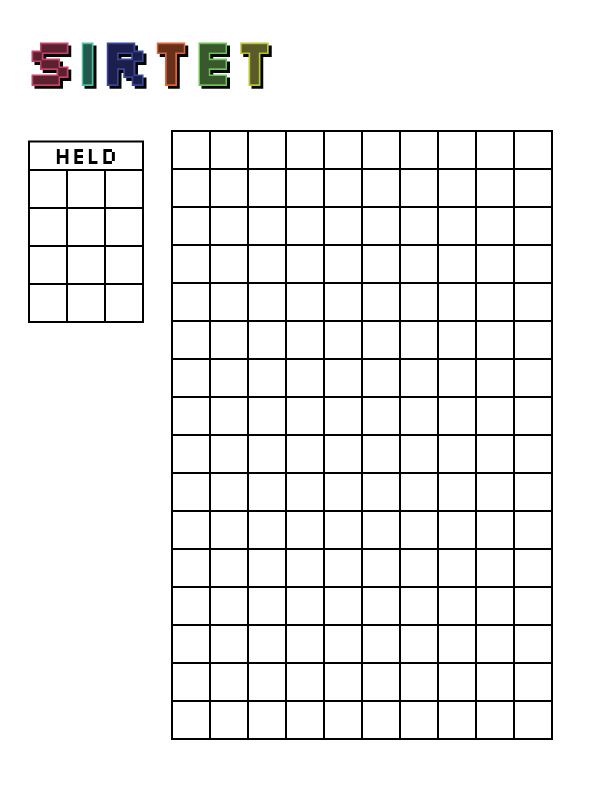
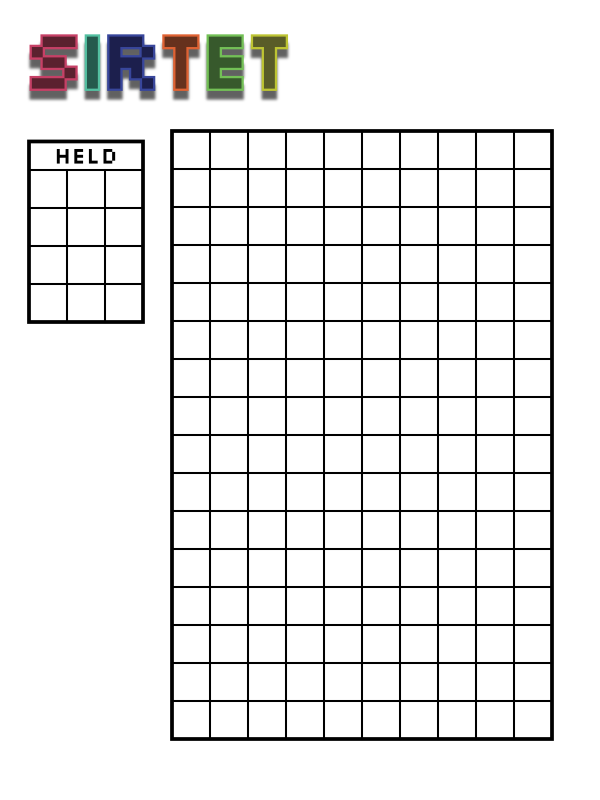
The Enlightening Update
- SirtetWindow label setups now return label instead of void
- Redundant line in MenuScene removed, fixes #50
- Added basicPanelSetup to SirtetWindow for all panels to use, fixes #49
- Changed playAudio to no longer create a new clip and thread, always uses same Sirtet.audioClips clip. Shows an average 99.81% decrease in delay from 5831bb3 and before.
- Collapsed MenuScene and ControlsImage into MenuScene, fixes #51. Enums, Sirtet etc. were changed to reflect this change
- Updated most assets, complete visual overhaul that made things lighter (thus the title)

diff --git a/src/GameplayScene.java b/src/GameplayScene.java
@@ -11,20 +11,16 @@ import java.util.ConcurrentModificationException;
 class GameplayScene extends JPanel implements KeyListener {
     private boolean isPaused = false;
     private SirtetGrid grid;
-    private JLabel score = new JLabel();
-    private JLabel paused = new JLabel("Game Paused");
+    private JLabel score = SirtetWindow.labelSetupLeft("", Sirtet.SILKSCREEN_60, 0, 0);
+    private JLabel paused = SirtetWindow.labelSetupCenter("Game Paused", Sirtet.SILKSCREEN_60, 250);
     private JPanel playPanel;
-    private JPanel pausePanel;
+    private JPanel pausePanel = new JPanel();
     private ReactiveButton quitButton;
     private VolumeSliders volumeSliders;
 
     public GameplayScene() {
         SaveData.currentScore = -25;
-        SirtetWindow.labelSetupLeft(score, Sirtet.SILKSCREEN_60, 0, 0);
-        SirtetWindow.labelSetupCenter(paused, Sirtet.SILKSCREEN_60, 250);
-        genericPanelSetup(this);
-        setBackground(Sirtet.SIRTET_GREEN);
-        setOpaque(true);
+        SirtetWindow.basicPanelSetup(this, true);
         volumeSliders = new VolumeSliders(VolumeSliders.VOLUME_CENTER_X, 350);
         quitButton = new ReactiveButton(Sirtet.menuImages[2], Sirtet.menuImages[5], 425, e -> SirtetWindow.changeScene(SceneID.Menu));
         grid = new SirtetGrid(this);
@@ -32,53 +28,43 @@ class GameplayScene extends JPanel implements KeyListener {
         pausePanelSetup();
     }
 
-    public void genericPanelSetup(JPanel panel) {
-        panel.setLayout(null);
-        panel.setSize(SirtetWindow.FRAME_SIZE_X, SirtetWindow.FRAME_SIZE_Y);
-        panel.setOpaque(false);
-    }
-
     public void playPanelSetup() {
         playPanel = new JPanel() {
             public void paint(Graphics g) {
                 super.paint(g);
-                g.setColor(new Color(103, 215, 237));
+                g.setColor(new Color(87, 223, 255));
                 int lastHeight = grid.getLastSonimortet().getHeight();
                 for (SonimortetPositions pos : grid.getLastPositions()) {
                     g.fillRect(173 + 38 * pos.getX(), 132 + 38 * (pos.getY() + lastHeight), 36, 36);
                 }
-                Image currentImage;
                 try {
                     for (Sonimortet currentSonimortet : grid.getSonimortetList()) {
-                        currentImage = Sirtet.gameplaySceneImages[currentSonimortet.getType().ordinal()];
+                        Image currentImage = Sirtet.gameplaySceneImages[currentSonimortet.getType().ordinal()];
                         for (SonimortetPositions currentPosition : currentSonimortet.getPositions()) {
-                            g.drawImage(currentImage, 173 + 38 * currentPosition.getX(), 132 + 38 * currentPosition.getY(), 36, 36, Sirtet.observer);
+                            g.drawImage(currentImage, 173 + 38 * currentPosition.getX(), 132 + 38 * currentPosition.getY(), Sirtet.observer);
                         }
                     }
                 } catch (ConcurrentModificationException e) {
                     repaint();
                     return;
                 }
-                currentImage = Sirtet.gameplaySceneImages[grid.getHeldType().ordinal()];
                 for (int xPos = 0; xPos < 3; xPos++) {
                     for (int yPos = 0; yPos < 4; yPos++) {
                         if (getHeldGrid()[xPos][yPos]) {
-                            g.drawImage(currentImage, 30 + 38 * xPos, 170 + 38 * yPos, 37, 37, Sirtet.observer);
+                            g.drawImage(Sirtet.gameplaySceneImages[grid.getHeldType().ordinal()], 30 + 38 * xPos, 170 + 38 * yPos, 37, 37, Sirtet.observer);
                         }
                     }
                 }
-                currentImage = Sirtet.gameplaySceneImages[7];
-                g.drawImage(currentImage, 0, 0, Sirtet.observer);
+                g.drawImage(Sirtet.gameplaySceneImages[7], 0, 0, Sirtet.observer);
             }
         };
-        genericPanelSetup(playPanel);
+        SirtetWindow.basicPanelSetup(playPanel, false);
         playPanel.add(score);
         add(playPanel);
     }
 
     public void pausePanelSetup() {
-        pausePanel = new JPanel();
-        genericPanelSetup(pausePanel);
+        SirtetWindow.basicPanelSetup(pausePanel, false);
         pausePanel.add(quitButton);
         pausePanel.add(paused);
         pausePanel.add(volumeSliders);
@@ -175,9 +161,7 @@ class GameplayScene extends JPanel implements KeyListener {
             case KeyEvent.VK_ESCAPE:
                 pauseGame();
         }
-        try {
-            grid.updateGrid(true);
-        } catch (NullPointerException ignored) {}
+        try { grid.updateGrid(true); } catch (NullPointerException ignored) {}
     }
 
     public SirtetGrid getGrid() {

diff --git a/src/HighScoreScene.java b/src/HighScoreScene.java
@@ -14,14 +14,10 @@ class HighScoreScene extends JPanel implements KeyListener {
     private JLabel[] scoreLabels = new JLabel[10];
 
     public HighScoreScene() {
+        SirtetWindow.basicPanelSetup(this, true);
         loadLabels();
-        setBackground(Sirtet.SIRTET_GREEN);
-        JLabel titleLabel = new JLabel("Highscores");
-        SirtetWindow.labelSetupCenter(titleLabel, Sirtet.SILKSCREEN_60, 50);
-        JLabel returnLabel = new JLabel("ESC to Return");
-        SirtetWindow.labelSetupCenter(returnLabel, Sirtet.SILKSCREEN_30, 725);
-        setLayout(null);
-        setSize(SirtetWindow.FRAME_SIZE_X, SirtetWindow.FRAME_SIZE_Y);
+        JLabel titleLabel = SirtetWindow.labelSetupCenter("Highscores", Sirtet.SILKSCREEN_60, 50);
+        JLabel returnLabel = SirtetWindow.labelSetupCenter("ESC to Return", Sirtet.SILKSCREEN_30, 725);
         add(titleLabel);
         add(returnLabel);
         for (int labelIndex = 0; labelIndex < 10; labelIndex++) {
@@ -34,12 +30,9 @@ class HighScoreScene extends JPanel implements KeyListener {
     public void loadLabels() {
         for (int labelIndex = 0; labelIndex < 10; labelIndex++) {
             HighScore currentHS = SaveData.highScores[labelIndex];
-            indexLabels[labelIndex] = new JLabel(labelIndex + 1 + ": ");
-            SirtetWindow.labelSetupRight(indexLabels[labelIndex], Sirtet.SILKSCREEN_30, 110, 160 + labelIndex * 50);
-            nameLabels[labelIndex] = new JLabel(currentHS.getName());
-            SirtetWindow.labelSetupRight(nameLabels[labelIndex], Sirtet.SILKSCREEN_30, 360, 160 + labelIndex * 50);
-            scoreLabels[labelIndex] = new JLabel("" + currentHS.getScore());
-            SirtetWindow.labelSetupRight(scoreLabels[labelIndex], Sirtet.SILKSCREEN_30, 550, 160 + labelIndex * 50);
+            indexLabels[labelIndex] = SirtetWindow.labelSetupRight(labelIndex + 1 + ": ", Sirtet.SILKSCREEN_30, 110, 160 + labelIndex * 50);
+            nameLabels[labelIndex] = SirtetWindow.labelSetupRight(currentHS.getName(), Sirtet.SILKSCREEN_30, 360, 160 + labelIndex * 50);
+            scoreLabels[labelIndex] = SirtetWindow.labelSetupRight("" + currentHS.getScore(), Sirtet.SILKSCREEN_30, 550, 160 + labelIndex * 50);
         }
     }
 

diff --git a/src/MenuScene.java b/src/MenuScene.java
@@ -7,25 +7,18 @@ import java.awt.*;
  */
 class MenuScene extends JPanel {
     public MenuScene() {
-        setSize(SirtetWindow.FRAME_SIZE_X, SirtetWindow.FRAME_SIZE_Y);
-        setLayout(null);
-        setSize(SirtetWindow.FRAME_SIZE_X, SirtetWindow.FRAME_SIZE_Y);
-        JPanel menuBackground = new JPanel() {
+        SirtetWindow.basicPanelSetup(this, false);
+        JPanel backgroundPanel = new JPanel() {
             public void paint(Graphics g) {
-                Image image = Sirtet.menuImages[6];
-                g.drawImage(image, 0, 0, SirtetWindow.FRAME_SIZE_X, SirtetWindow.FRAME_SIZE_Y, Sirtet.observer);
-                image = Sirtet.menuImages[7];
-                g.drawImage(image, 600 / 2 - 388 / 2, 475, 388, 193, Sirtet.observer);
+                super.paint(g);
+                g.drawImage(Sirtet.menuImages[6], 0, 0, Sirtet.observer);
             }
         };
-        menuBackground.setSize(SirtetWindow.FRAME_SIZE_X, SirtetWindow.FRAME_SIZE_Y);
-        add(new ReactiveButton(Sirtet.menuImages[0], Sirtet.menuImages[3], 280, e -> SirtetWindow.changeScene(SceneID.Gameplay)));
-        add(new ReactiveButton(Sirtet.menuImages[1], Sirtet.menuImages[4], 340, e -> SirtetWindow.changeScene(SceneID.HighScore)));
-        add(new ReactiveButton(Sirtet.menuImages[2], Sirtet.menuImages[5], 405, e-> {
-            SaveData.writeFile();
-            System.exit(0);
-        }));
+        SirtetWindow.basicPanelSetup(backgroundPanel, false);
+        add(new ReactiveButton(Sirtet.menuImages[0], Sirtet.menuImages[3], 260, e -> SirtetWindow.changeScene(SceneID.Gameplay)));
+        add(new ReactiveButton(Sirtet.menuImages[1], Sirtet.menuImages[4], 320, e -> SirtetWindow.changeScene(SceneID.HighScore)));
+        add(new ReactiveButton(Sirtet.menuImages[2], Sirtet.menuImages[5], 380, e-> { SaveData.writeFile(); System.exit(0); }));
         add(new VolumeSliders(VolumeSliders.VOLUME_CENTER_X, 700));
-        add(menuBackground);
+        add(backgroundPanel);
     }
 }

diff --git a/src/SirtetWindow.java b/src/SirtetWindow.java
@@ -73,27 +73,39 @@ class SirtetWindow {
         frame.repaint();
     }
 
-    public static void genericLabel(JLabel label, Font font) {
+    public static JLabel genericLabel(Font font, String text) {
+        JLabel label = new JLabel(text);
         label.setForeground(Color.black);
         label.setFont(font);
+        return label;
     }
 
-    public static void labelSetupLeft(JLabel label, Font font, int xPos, int yPos) {
-        genericLabel(label, font);
+    public static JLabel labelSetupLeft(String text, Font font, int xPos, int yPos) {
+        JLabel label = genericLabel(font, text);
         label.setBounds(xPos, yPos, label.getPreferredSize().width, label.getPreferredSize().height);
+        return label;
     }
 
-    public static void labelSetupCenter(JLabel label, Font font, int yPos) {
-        genericLabel(label, font);
+    public static JLabel labelSetupCenter(String text, Font font, int yPos) {
+        JLabel label = genericLabel(font, text);
         int labelWidth = label.getPreferredSize().width;
         int labelHeight = label.getPreferredSize().height;
         label.setBounds((FRAME_SIZE_X - labelWidth) / 2, yPos, labelWidth, labelHeight);
+        return label;
     }
 
-    public static void labelSetupRight(JLabel label, Font font, int xPos, int yPos) {
-        genericLabel(label, font);
+    public static JLabel labelSetupRight(String text, Font font, int xPos, int yPos) {
+        JLabel label = genericLabel(font, text);
         int labelWidth = label.getPreferredSize().width;
         int labelHeight = label.getPreferredSize().height;
         label.setBounds(xPos - labelWidth, yPos, labelWidth, labelHeight);
+        return label;
+    }
+
+    public static void basicPanelSetup(JPanel panel, boolean opaque) {
+        panel.setBackground(Sirtet.SIRTET_GREEN);
+        panel.setSize(FRAME_SIZE_X, FRAME_SIZE_Y);
+        panel.setOpaque(opaque);
+        panel.setLayout(null);
     }
 }

diff --git a/src/GameOverScene.java b/src/GameOverScene.java
@@ -13,13 +13,9 @@ class GameOverScene extends JPanel implements ActionListener {
     private JTextField nameField;
 
     public GameOverScene() {
-        setSize(SirtetWindow.FRAME_SIZE_X, SirtetWindow.FRAME_SIZE_Y);
-        setLayout(null);
-        setBackground(Sirtet.SIRTET_GREEN);
-        JLabel gameOverLabel = new JLabel("<html><p style=\"text-align:center;\">Game Over!<br>Enter Your Name:</p>");
-        SirtetWindow.labelSetupCenter(gameOverLabel, Sirtet.SILKSCREEN_40, 275);
-        JLabel pointsLabel = new JLabel("Score: " + SaveData.currentScore);
-        SirtetWindow.labelSetupCenter(pointsLabel, Sirtet.SILKSCREEN_40, 475);
+        SirtetWindow.basicPanelSetup(this, true);
+        JLabel gameOverLabel = SirtetWindow.labelSetupCenter("<html><p style=\"text-align:center;\">Game Over!<br>Enter Your Name:</p>", Sirtet.SILKSCREEN_40, 275);
+        JLabel pointsLabel = SirtetWindow.labelSetupCenter("Score: " + SaveData.currentScore, Sirtet.SILKSCREEN_40, 475);
         nameField = new JTextField();
         setField();
         add(gameOverLabel);
@@ -28,12 +24,12 @@ class GameOverScene extends JPanel implements ActionListener {
     }
 
     public void setField() {
+        nameField.setOpaque(false);
         nameField.setBounds(150, 400, 300, 50);
         nameField.setForeground(Color.black);
         nameField.setFont(Sirtet.SILKSCREEN_30);
         nameField.addActionListener(this);
         nameField.setHorizontalAlignment(JTextField.CENTER);
-        nameField.setBackground(new Color(37, 218, 192));
         nameField.setBorder(null);
     }
 

diff --git a/src/SirtetAudio.java b/src/SirtetAudio.java
@@ -18,13 +18,10 @@ class SirtetAudio {
     }
 
     public static void playAudio(AudioID audioID) {
-        new Thread(() -> {
-            Clip clip = Sirtet.audioClips[audioID.ordinal()];
-            clip.stop();
-            FloatControl fc = (FloatControl) clip.getControl(FloatControl.Type.MASTER_GAIN);
-            fc.setValue((float) ((Math.log(SaveData.sfxVolume / 9.0)) / Math.log(10.0) * 20.0));
-            clip.setMicrosecondPosition(0);
-            clip.start();
-        }).start();
+        Sirtet.audioClips[audioID.ordinal()].stop();
+        FloatControl fc = (FloatControl) Sirtet.audioClips[audioID.ordinal()].getControl(FloatControl.Type.MASTER_GAIN);
+        fc.setValue((float) ((Math.log(SaveData.sfxVolume / 9.0)) / Math.log(10.0) * 20.0));
+        Sirtet.audioClips[audioID.ordinal()].setMicrosecondPosition(0);
+        Sirtet.audioClips[audioID.ordinal()].start();
     }
 }

diff --git a/src/Sirtet.java b/src/Sirtet.java
@@ -19,7 +19,7 @@ public class Sirtet {
     static final Font SILKSCREEN_40 = new Font("Silkscreen", Font.PLAIN, 40);
     static final Font SILKSCREEN_30 = new Font("Silkscreen", Font.PLAIN, 30);
     static BufferedImage[] gameplaySceneImages = new BufferedImage[8];
-    static BufferedImage[] menuImages = new BufferedImage[8];
+    static BufferedImage[] menuImages = new BufferedImage[7];
     static BufferedImage icon;
     static ImageObserver observer;
     static Clip[] audioClips = new Clip[AudioID.values().length];

diff --git a/src/GameplayTimers.java b/src/GameplayTimers.java
@@ -37,8 +37,6 @@ class GameplayTimers implements ActionListener {
     public void actionPerformed(ActionEvent e) {
         if (grid.getLastSonimortet().getHeight() == 0) grid.getLastSonimortet().hardDrop();
         else grid.getLastSonimortet().softDrop();
-        try {
-            grid.updateGrid(true);
-        } catch (NullPointerException ignored) {}
+        try { grid.updateGrid(true); } catch (NullPointerException ignored) {}
     }
 }

diff --git a/src/Enums.java b/src/Enums.java
@@ -36,6 +36,5 @@ enum ImageID {
     PlayButtonActive,
     HighScoreButtonActive,
     QuitButtonActive,
-    MenuScene,
-    ControlsImage
+    MenuScene
 }
